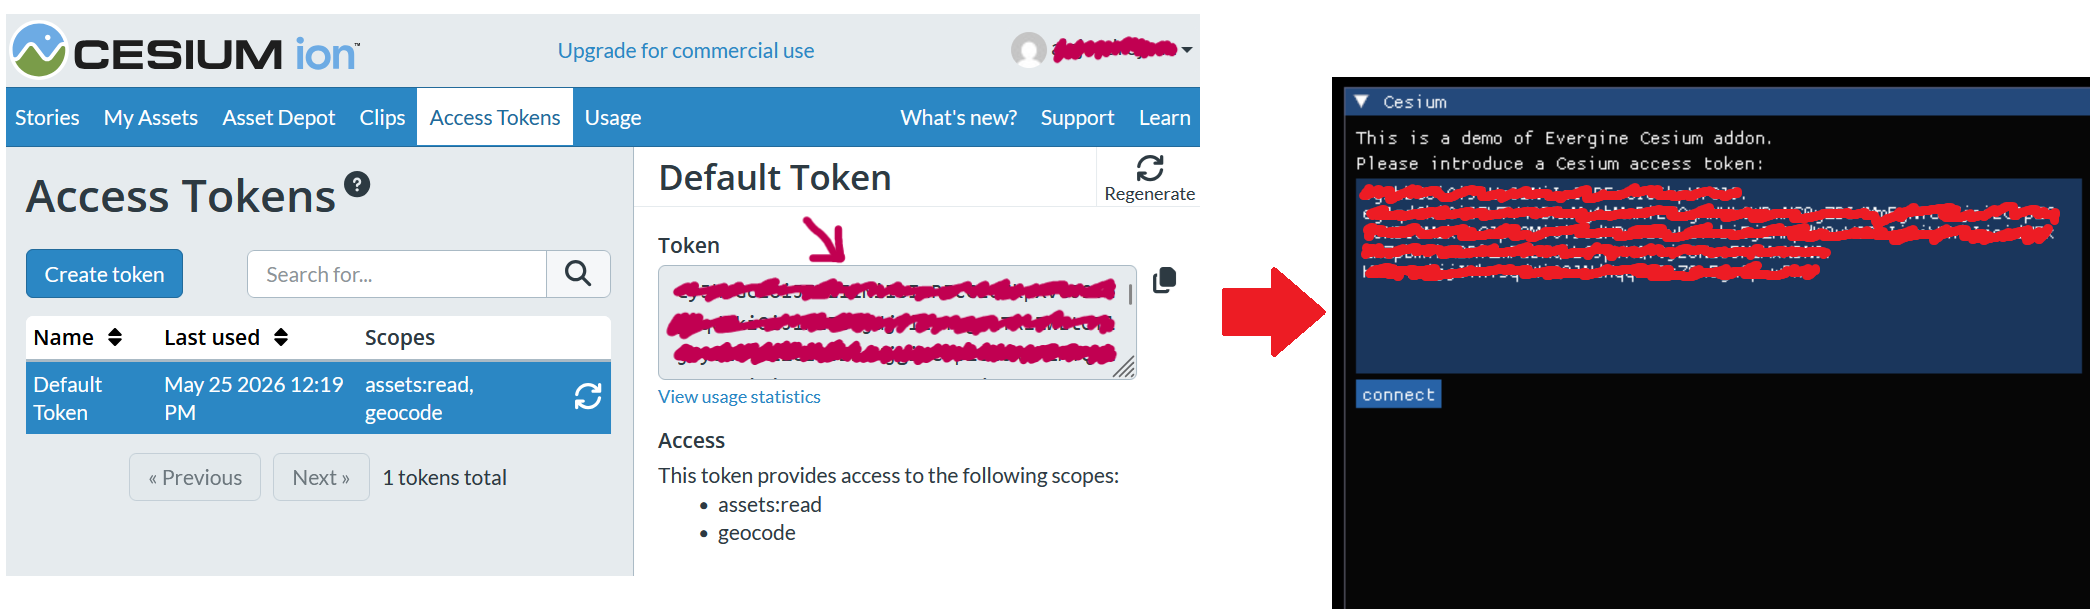
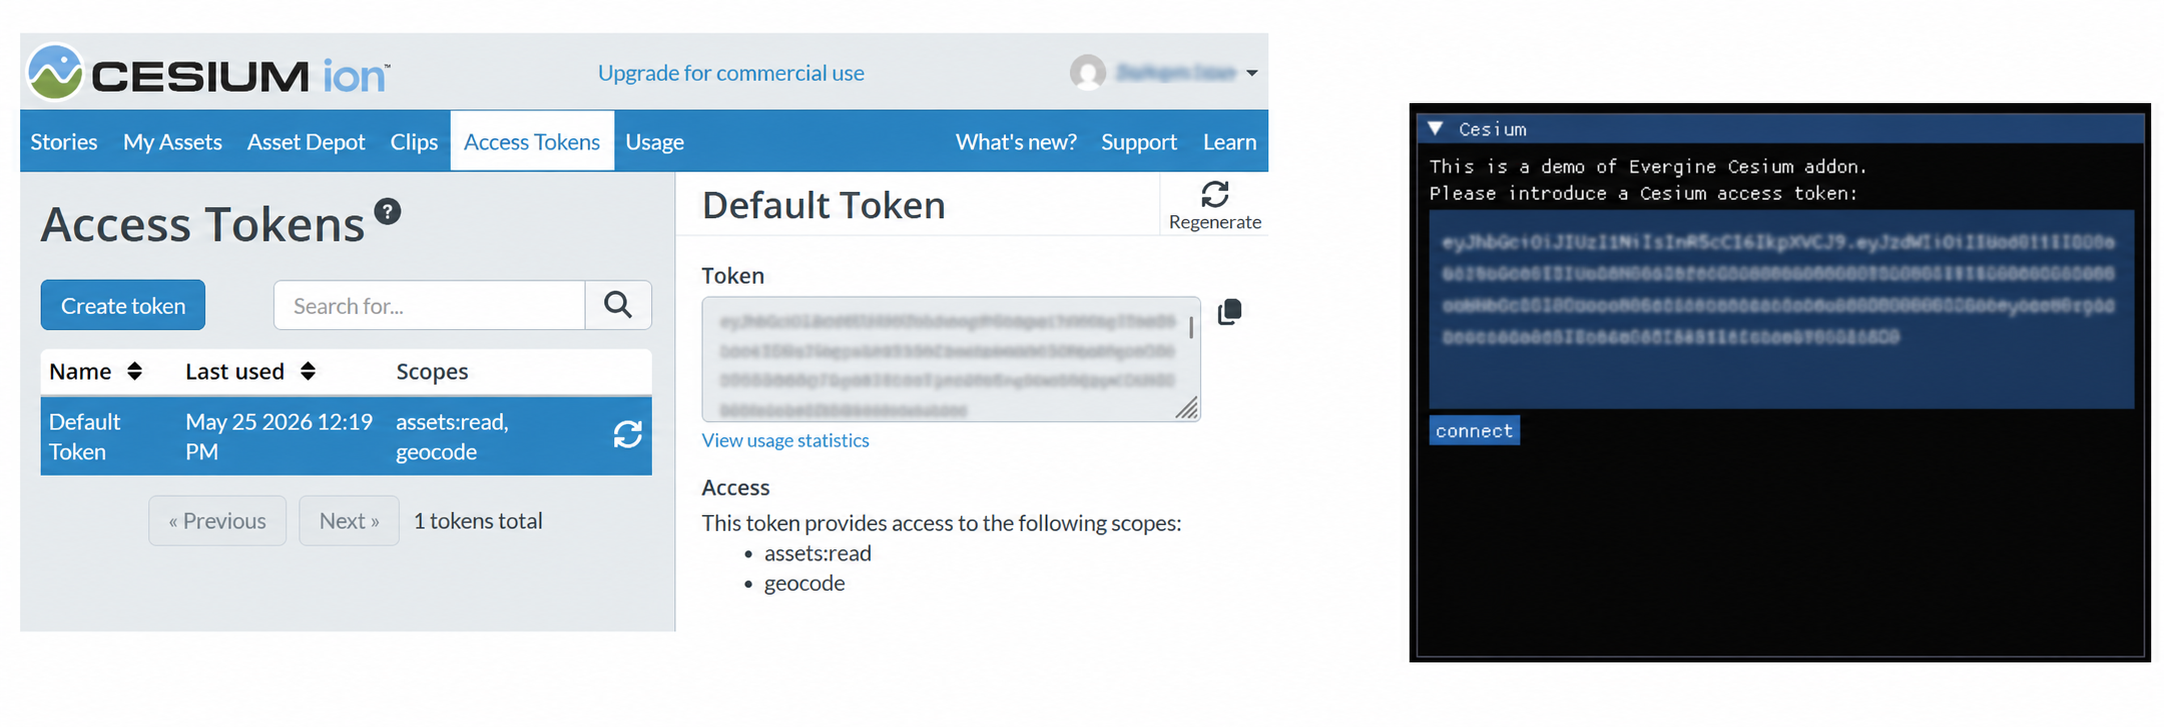
- Updated readme and screenshots

Changed region(s): [[0.0, 0.0312, 1.0, 1.0], [0.0622, 0.78, 0.2488, 0.8112]]

diff --git a/README.md b/README.md
@@ -1,39 +1,137 @@
 # CesiumDemo
 
-## Introduction
+Sample project that showcases the integration of **Cesium GIS technology** inside **Evergine**, including streamed 3D globe visualization, terrain overlays, geocoding, interactive pin placement, and solar lighting controls.
 
-This Evergine sample demostrates how to use the Cesium addon.
+<p align="center">
+  <img src="readme_images/demo.jpg" alt="Cesium demo running in Evergine" width="960" />
+</p>
 
-![](readme_images/demo.jpg)
+## Overview
 
-## Build and Test
+This repository demonstrates how to build a real-time geospatial experience in Evergine using the `Evergine.Cesium` addon. The sample connects to Cesium services at runtime, renders the globe with different imagery providers, and layers a small interaction workflow on top of the streamed terrain.
 
-Just open the Visual Studio Windows solution and start debugging the project.
+Beyond simply loading map data, the project also shows how to:
 
-## Obtain Cesium API token
+- Authenticate against Cesium services with a runtime token.
+- Switch between different terrain imagery providers.
+- Search locations through Azure Maps geocoding.
+- Place 3D pins directly on the terrain using depth-based picking.
+- Keep markers readable at any zoom level with constant screen-size billboarding.
+- Adjust sun lighting based on UTC date and time.
 
-In order for the application to access the Cesium resources, you will need to obtain a Cesium API access token. \
-You can obtain a free access token for testing purposes from https://ion.cesium.com. \
-Create an account:
+## What This Sample Includes
 
-![](readme_images/sign_in.png)
+- **Cesium streaming in Evergine** through `Evergine.Cesium`.
+- **Multiple Windows render backends**:
+  - DirectX 11
+  - DirectX 12
+  - OpenGL
+  - Vulkan
+- **ImGui-based runtime tooling** for tokens, provider selection, geocoding, pin management, and time controls.
+- **Interactive terrain annotations** with editable names, color selection, and camera fly-to shortcuts.
+- **Optional geocoding support** powered by Azure Maps.
 
-Then copy and paste the access token into the welcome panel of the demo:
+## Solution Layout
 
-![](readme_images/token_copy.png)
+- `CesiumDemo`: shared application logic and scene behavior.
+- `CesiumDemo.Editor`: Evergine editor-side extensions.
+- `CesiumDemo.Windows`: Windows launcher using DirectX 11.
+- `CesiumDemo.Windows.DirectX12`: Windows launcher using DirectX 12.
+- `CesiumDemo.Windows.OpenGL`: Windows launcher using OpenGL.
+- `CesiumDemo.Windows.Vulkan`: Windows launcher using Vulkan.
+- `Content`: scene, mesh, font, and environment assets.
 
-## Obtain Azure Maps API token
+## Requirements
 
-Optionally, if you want to be able to use geocoding capabilities, you will need to obtain an access token for Azure Maps access token. \
-You can obtain a free access token for evaluation purposes from https://azure.microsoft.com. \
-Then copy the access token here: \
-![](readme_images/azure_token.png)
+- Windows machine with GPU support for the selected backend.
+- [.NET 10 SDK 10.0.201](https://dotnet.microsoft.com/).
+- Visual Studio 2022 or later recommended.
+- Internet access to reach Cesium services.
+- A **Cesium ion access token**.
+- An **Azure Maps access token** if you want geocoding/autocomplete features.
 
-----
-Powered by **[Evergine](http://www.evergine.com)**
+The project references **Evergine nightly packages** through [`nuget.config`](nuget.config), so package restore must be able to reach both NuGet.org and the Evergine nightly feed.
 
-LET'S CONNECT!
+## Running the Demo
 
-- [Youtube](https://www.youtube.com/subscription_center?add_user=EvergineChannel)
-- [Twitter](https://twitter.com/EvergineTeam)
-- [Blog](http://geeks.ms/evergineteam/)
+1. Open the solution that matches the rendering backend you want to test:
+   - `CesiumDemo.Windows.sln`
+   - `CesiumDemo.Windows.DirectX12.sln`
+   - `CesiumDemo.Windows.OpenGL.sln`
+   - `CesiumDemo.Windows.Vulkan.sln`
+2. Restore NuGet packages.
+3. Set the startup project for the selected solution if needed.
+4. Run the application from Visual Studio.
+5. Paste a valid **Cesium ion** token into the startup window and press `connect`.
+6. Optionally, add an **Azure Maps** token in the main panel to enable geocoding.
+
+## Cesium ion Token
+
+You can create a free evaluation account at [ion.cesium.com](https://ion.cesium.com/).
+
+<p align="center">
+  <img src="readme_images/sign_in.png" alt="Cesium ion sign in" width="520" />
+</p>
+
+After signing in, copy your access token and paste it into the demo startup panel:
+
+<p align="center">
+  <img src="readme_images/token_copy.png" alt="Copying the Cesium token into the demo" width="900" />
+</p>
+
+## Azure Maps Token
+
+Geocoding is optional, but if you want to search for cities or addresses from inside the demo, create an Azure Maps key and paste it into the geocoding section of the UI.
+
+<p align="center">
+  <img src="readme_images/azure_token.png" alt="Azure Maps token input" width="380" />
+</p>
+
+## Runtime Features
+
+Once connected, the sample lets you explore several integration points:
+
+- **Overlay provider selection** to compare different imagery styles.
+- **Geocoding and autocomplete** for quick camera navigation to places.
+- **Right-click pin placement** on streamed terrain.
+- **Pin editing**:
+  - rename pins
+  - recolor markers
+  - delete annotations
+  - jump the camera back to a saved pin
+- **Solar date/time controls** to preview how lighting changes over the globe.
+
+## Controls
+
+| Action | Result |
+| --- | --- |
+| `Right click` | Place a pin on the terrain |
+| `GO` button | Fly the camera to a saved pin |
+| Provider combo | Change terrain imagery overlay |
+| Geocoding input | Search and navigate to a place |
+| Solar Date/Time panel | Update sun direction using UTC time |
+
+## Implementation Notes
+
+- The sample uses a custom **depth-picking** helper to recover terrain positions from the depth buffer.
+- Pins are attached to the globe through `CesiumPlacerComponent`, so they remain georeferenced.
+- Marker readability is preserved with a custom **constant-size billboard** behavior.
+- Entered tokens are persisted locally in:
+  - `cesium_access_token.txt`
+  - `azure_access_token.txt`
+
+## Why This Repository Is Useful
+
+If you are evaluating Cesium support in Evergine, this sample is a practical reference for:
+
+- bootstrapping Cesium services inside an Evergine application,
+- connecting GIS data with a real-time 3D scene,
+- adding runtime tools for map exploration,
+- implementing terrain-aware interactions and annotations,
+- validating the integration across different graphics backends.
+
+## Powered By
+
+- [Evergine](https://evergine.com/)
+- [Cesium](https://cesium.com/platform/cesium-ion/)
+- [Azure Maps](https://azure.microsoft.com/products/azure-maps/)
